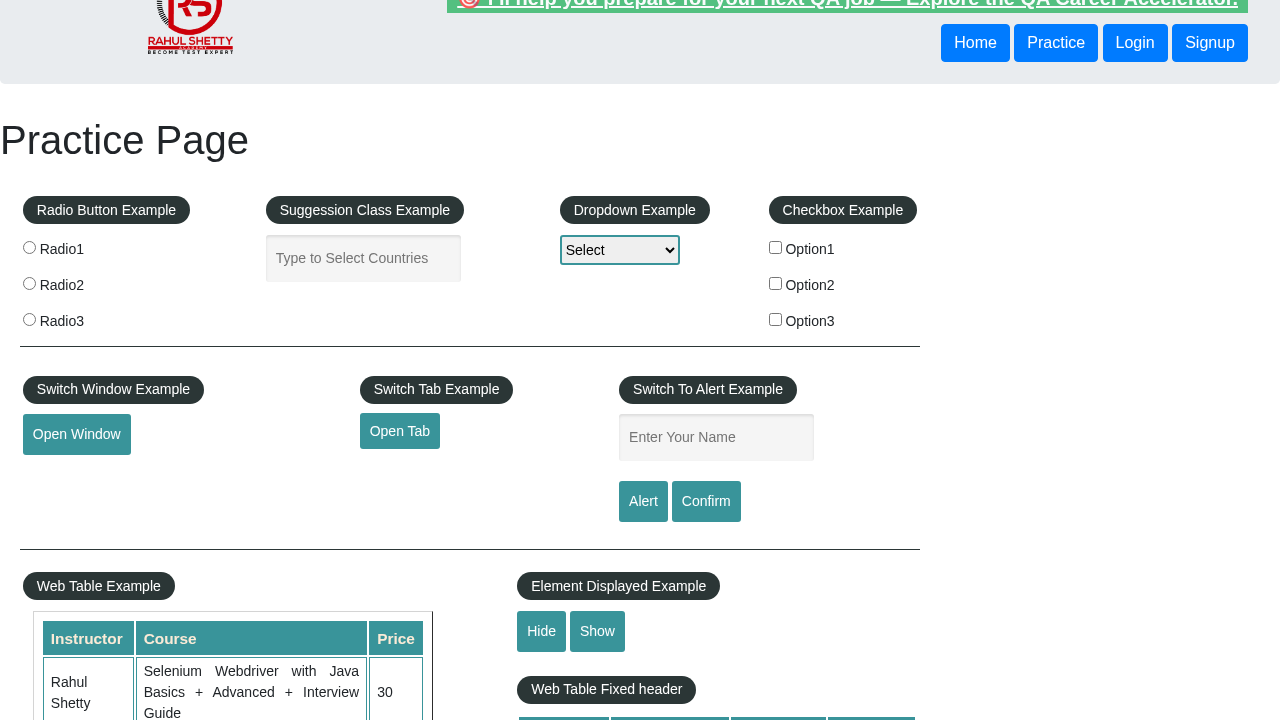
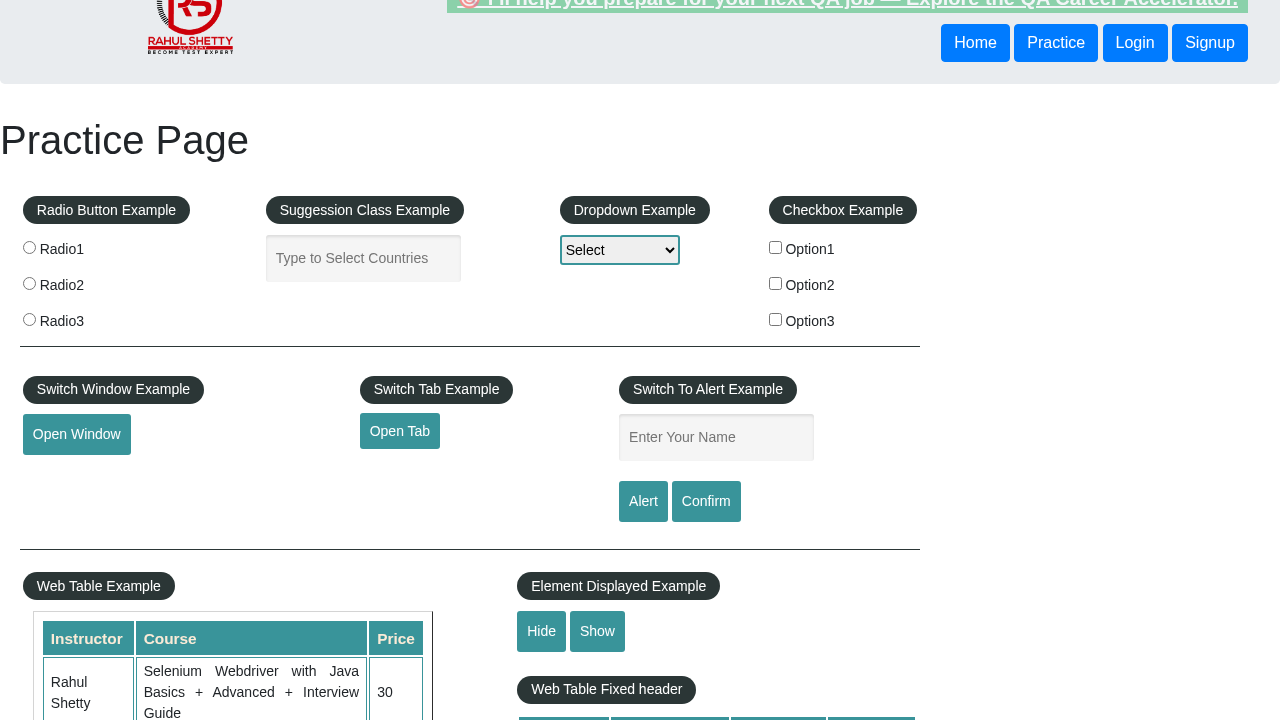
y

Changed region(s): [[0.3438, 0.0, 1.0, 0.0306]]

diff --git a/playwright.service.config.js b/playwright.service.config.js
@@ -18,21 +18,6 @@ export default defineConfig(
     ],
   }
 );
-// export default defineConfig(
-//   config,
-//   createAzurePlaywrightConfig(config, {
-//     exposeNetwork: '<loopback>',
-//     connectTimeout: 3 * 60 * 1000, // 3 minutes
-//     os: ServiceOS.LINUX,
-//     credential: new DefaultAzureCredential(),
-//   }),
-//   {
-  
-//     reporter: [
-//       ["html", { open: "never" }],
-//       ["@azure/playwright/reporter"],
-//     ],
-//   }
-// );
+
 
 
